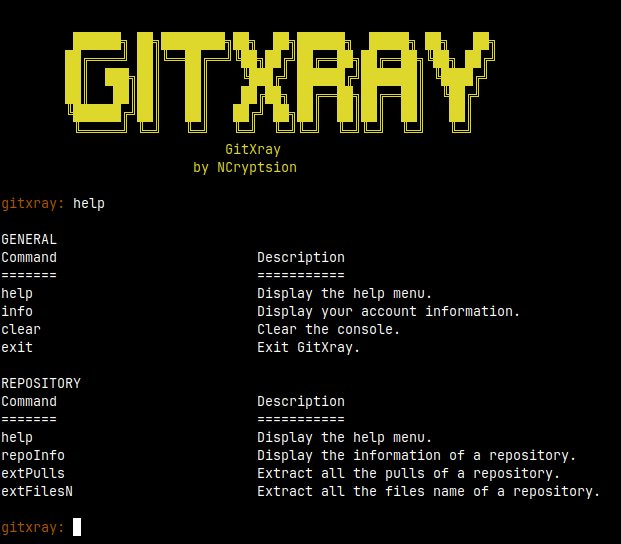
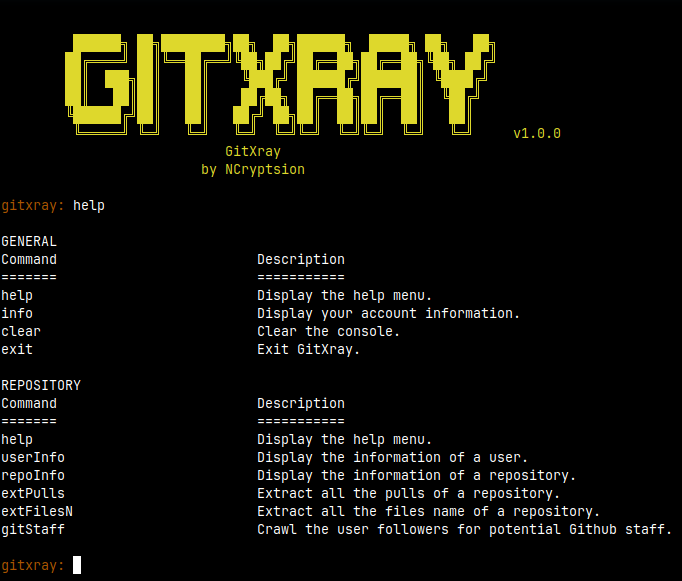
new update

diff --git a/index.js b/index.js
@@ -25,12 +25,9 @@ const checkToken = async()=>{
     }
 }
 
-const info = async()=>{
-    const accountInfo = await checkToken(token)
-
+const info = async(accountInfo)=>{
     console.log()
     log("=== GENERAL")
-    log(`Plan: ${accountInfo.plan.name.toUpperCase()}`)
     log(`Name: ${accountInfo.login}`)
     log(`Username: ${accountInfo.name}`)
     log(`BIO: ${accountInfo.bio || "N/A"}`)
@@ -40,6 +37,7 @@ const info = async()=>{
     log(`Website: ${accountInfo.blog || "N/A"}`)
     log(`Company: ${accountInfo.company || "N/A"}`)
     log(`Hireable: ${accountInfo.hireable ? "Yes" : "No"}`)
+    log(`Github Staff: ${accountInfo.site_admin ? "Yes" : "No"}`)
     log(`Created At: ${accountInfo.created_at}`)
 
     log("\n=== OTHERS")
@@ -50,9 +48,13 @@ const info = async()=>{
     log(`Following: ${accountInfo.following}`)
 
     log("\n=== PLAN")
-    log(`Type: ${accountInfo.plan.name.toUpperCase()}`)
-    log(`Max Space: ${accountInfo.plan.space}`)
-    log(`Max Private Repositories: ${accountInfo.plan.private_repos}`)
+    if(accountInfo.hasOwnProperty("plan")){
+        log(`Type: ${accountInfo.plan.name.toUpperCase()}`)
+        log(`Max Space: ${accountInfo.plan.space}`)
+        log(`Max Private Repositories: ${accountInfo.plan.private_repos}`)
+    }else{
+        log("Unable to retrieve user plan information.")
+    }
 
     log("\n === ADDITIONAL")
     log(`2FA: ${accountInfo.two_factor_authentication ? "Yes" : "No"}`)
@@ -145,7 +147,7 @@ const repoFiles = async(author, repo, path = "")=>{
         const response = await ky.get(`https://api.github.com/repos/${author}/${repo}/contents/${path}?per_page=100`, {
             headers: {
                 Authorization: `Bearer ${token}`,
-                Accept: "application/vnd.github.v3+json",
+                Accept: "application/vnd.github.v3+json"
             }
         }).json()
         var fileNames = []
@@ -186,6 +188,52 @@ const extFilesN = async()=>{
     }
 }
 
+const userInfo = async()=>{
+    try{
+        const username = readLine.question(chalk.yellow(`Github Username: `))
+        if(!username.length) return log("Invalid Github Username.")
+
+        const response = await ky.get(`https://api.github.com/users/${username}`, {
+            headers: {
+                Authorization: `Bearer ${token}`,
+                Accept: "application/vnd.github.v3+json",
+            }
+        }).json()
+        await info(response)
+    }catch{
+        log("Invalid Github Username.")
+    }
+}
+
+const gitStaff = async () => {
+    try {
+        const username = readLine.question(chalk.yellow("GitHub Username: "))
+        var siteAdmins = 0
+        var page = 1
+
+        log("Extracting user followers and finding Github staff...")
+        while (true) {
+            const response = await ky.get(`https://api.github.com/users/${username}/followers?page=${page}&per_page=100`, {
+                headers: {
+                    Authorization: `Bearer ${token}`,
+                    Accept: "application/vnd.github.v3+json"
+                }
+            }).json()
+
+            if(!response.length) break;
+            for ( const follower of response ) if(follower.site_admin){
+                log(`Found -> https://github.com/${follower.login}`)
+                siteAdmins++
+            }
+            page++
+        }
+
+        siteAdmins ? log(`${siteAdmins} Github staff in followers found.`) : log("No Github staff in followers found.")
+    }catch{
+        log("Invalid Github Username.")
+    }
+}
+
 // Main
 const banner = ()=>{
     console.log(chalk.yellowBright(`
@@ -195,9 +243,9 @@ const banner = ()=>{
         ██║  ███╗██║   ██║    ╚███╔╝ ██████╔╝███████║ ╚████╔╝ 
         ██║   ██║██║   ██║    ██╔██╗ ██╔══██╗██╔══██║  ╚██╔╝  
         ╚██████╔╝██║   ██║   ██╔╝ ██╗██║  ██║██║  ██║   ██║   
-         ╚═════╝ ╚═╝   ╚═╝   ╚═╝  ╚═╝╚═╝  ╚═╝╚═╝  ╚═╝   ╚═╝                                            
+         ╚═════╝ ╚═╝   ╚═╝   ╚═╝  ╚═╝╚═╝  ╚═╝╚═╝  ╚═╝   ╚═╝     v1.0.0                                       
                             GitXray
-                        by NCryptsion
+                         by NCryptsion
     `))
 }
 
@@ -237,18 +285,25 @@ REPOSITORY
 Command                         Description
 =======                         ===========
 help                            Display the help menu.
+userInfo                        Display the information of a user.
 repoInfo                        Display the information of a repository.
 extPulls                        Extract all the pulls of a repository.
 extFilesN                       Extract all the files name of a repository.
+gitStaff                        Crawl the user followers for potential Github staff.
             `)
     }else if(command === "info"){
-        await info()
+        const accountInfo = await checkToken(token)
+        await info(accountInfo)
+    }else if(command === "userInfo"){
+        await userInfo()
     }else if(command === "repoInfo"){
         await repoInfo()
     }else if(command === "extPulls"){
         await extPulls()
     }else if(command === "extFilesN"){
         await extFilesN()
+    }else if(command === "gitStaff"){
+        await gitStaff()
     }else if(command === "clear"){
         console.clear()
     }else if(command === "exit"){

diff --git a/README.md b/README.md
@@ -20,7 +20,7 @@ pnpm install
 ```
 
 # 🛠 Setup
-You only need your Github account personal token to use GitXray. Please [click me](https://www.youtube.com/watch?v=0C-B6bFuQYU) for tutorial.
+You only need your Github account personal token to use GitXray. Please [click me](https://www.youtube.com/watch?v=0C-B6bFuQYU) for the tutorial.
 
 # 🚀 Usage
 ```
